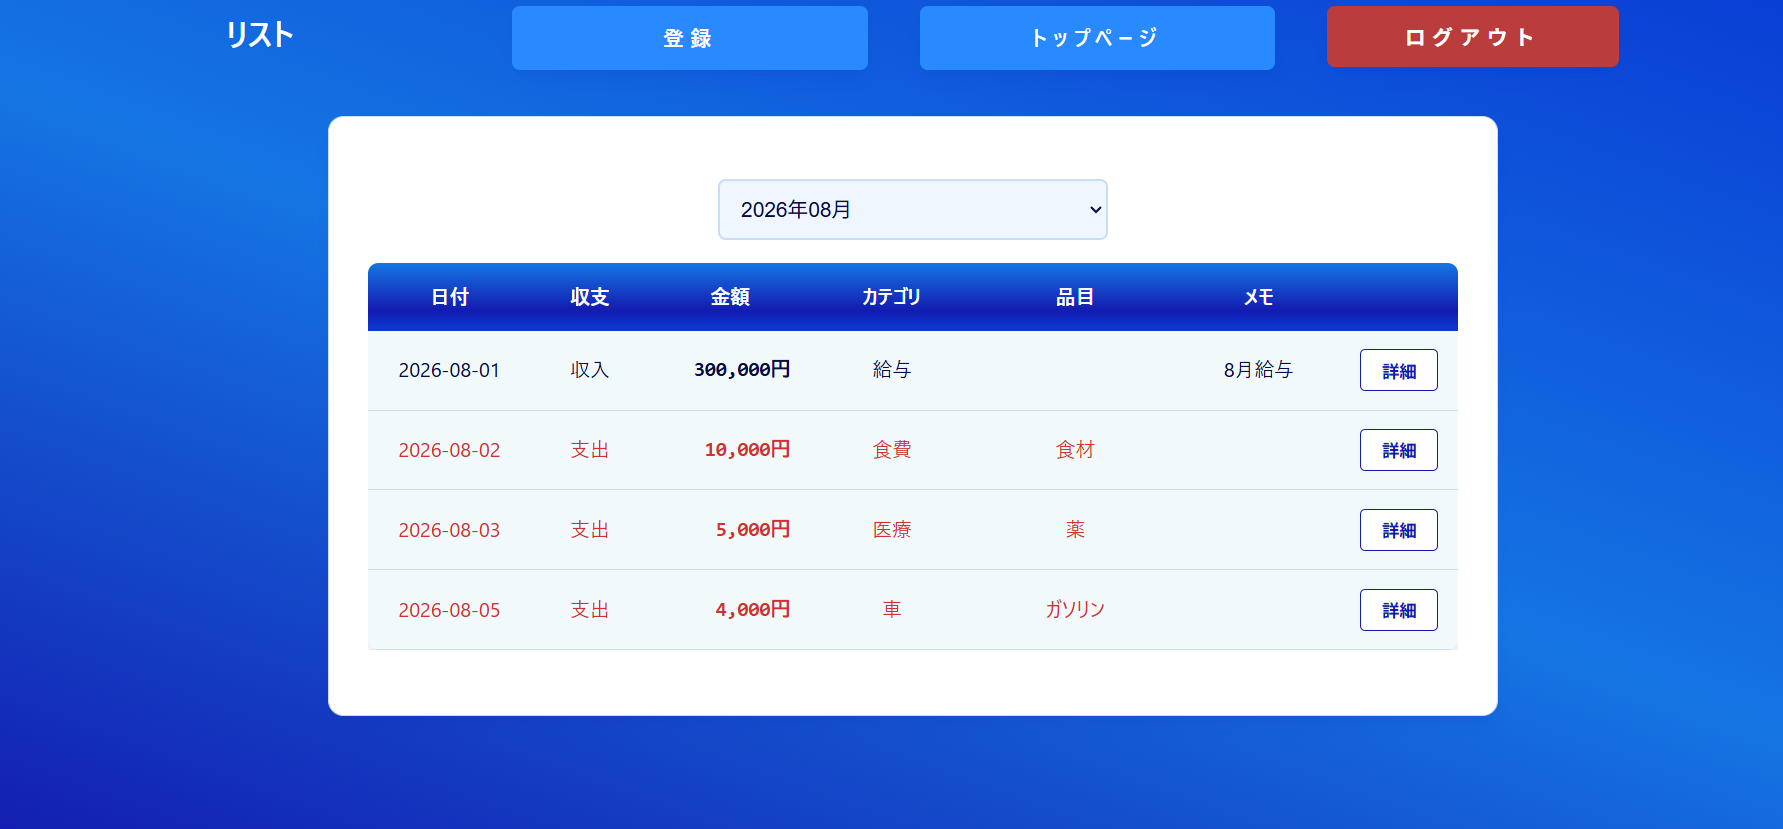
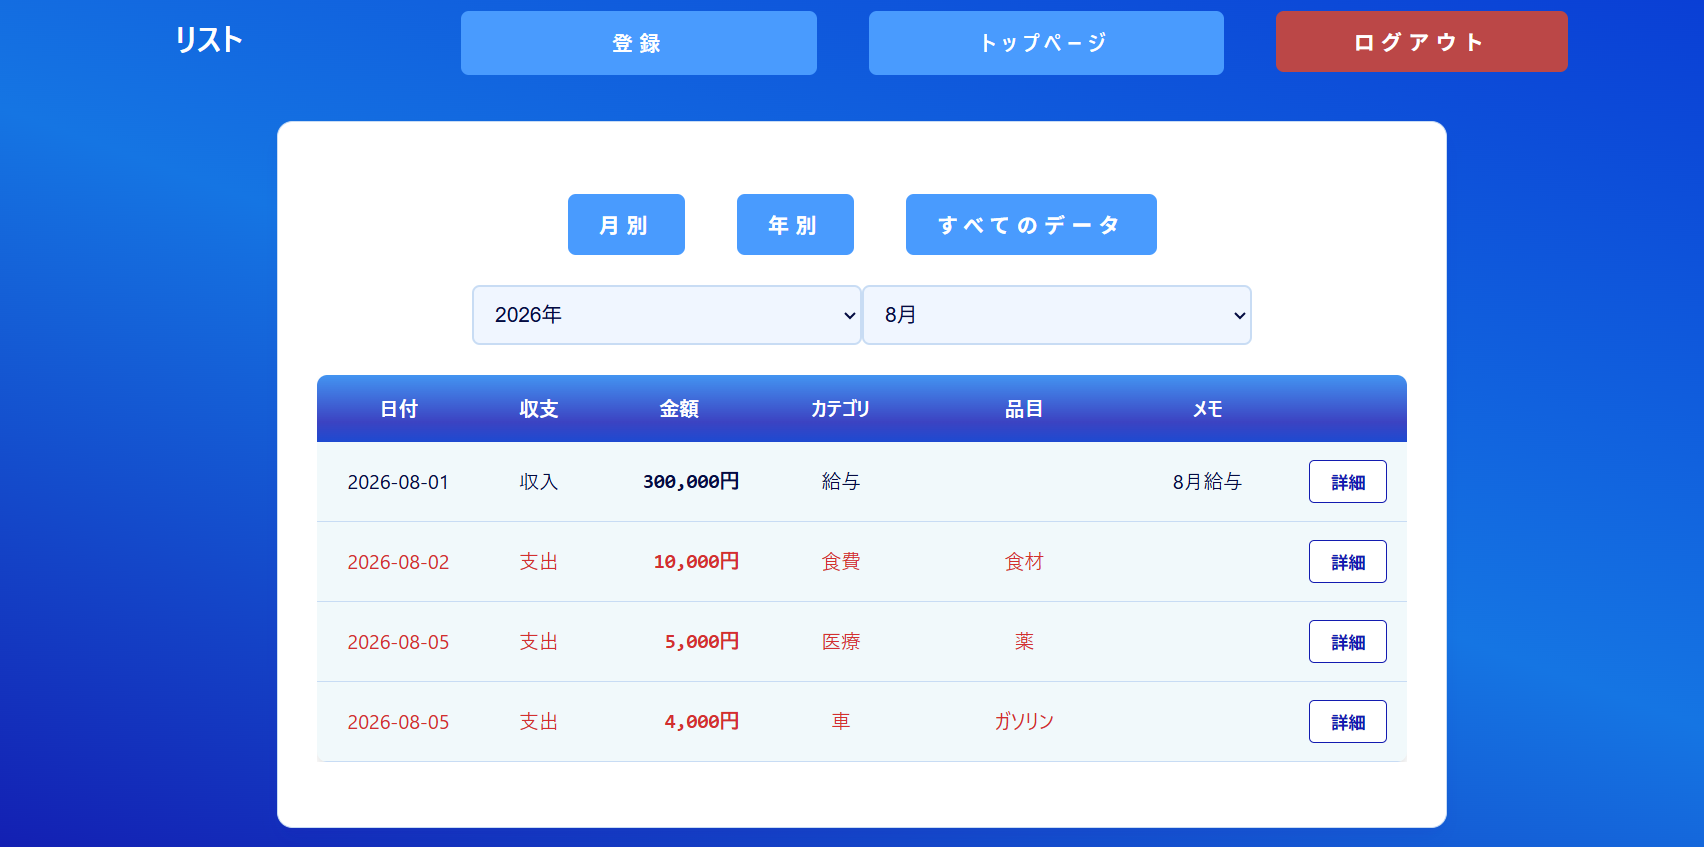
リストの表示を日付順に変更。今度こそ完成

diff --git a/frontend/moz-todo-react/src/TransactionList.jsx b/frontend/moz-todo-react/src/TransactionList.jsx
@@ -41,6 +41,10 @@ function TransactionList({ list = [] }) {
     return true;
   });
 
+  const sortedList = [...filteredList].sort((a, b) => {
+    return b.date.localeCompare(a.date);
+  });
+
   //データが一件もなとき表示
   if (list.length === 0) {
     return (
@@ -127,14 +131,14 @@ function TransactionList({ list = [] }) {
               </tr>
             </thead>
             <tbody>
-              {filteredList.length === 0 ? (
+              {sortedList.length === 0 ? (
                 <tr>
                   <td colSpan="7" className="is-negative">
                     選択された月のデータがありません。
                   </td>
                 </tr>
               ) : (
-                filteredList.map((l, index) => (
+                sortedList.map((l, index) => (
                   <tr
                     key={l.id || `tx-${index}`}
                     className={
